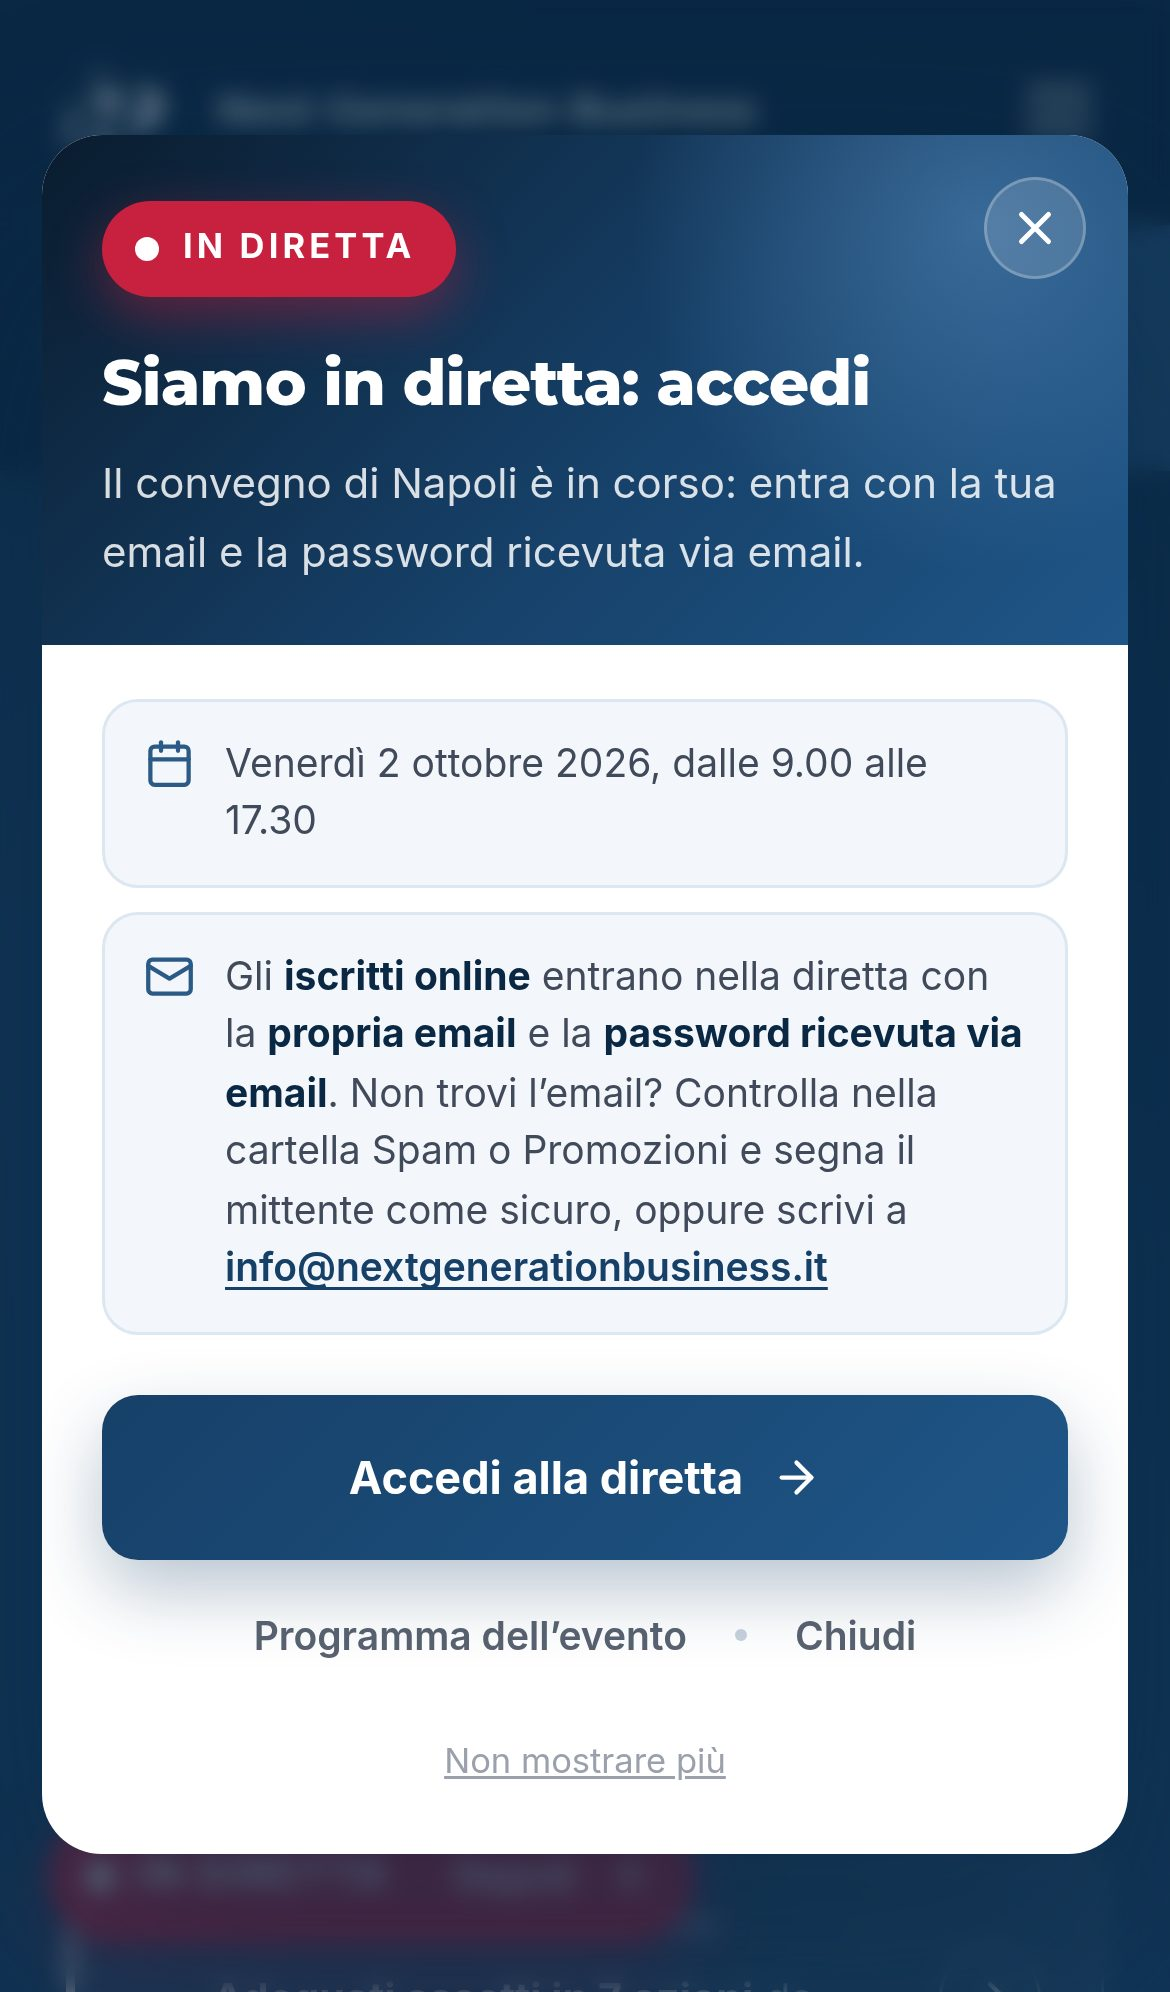
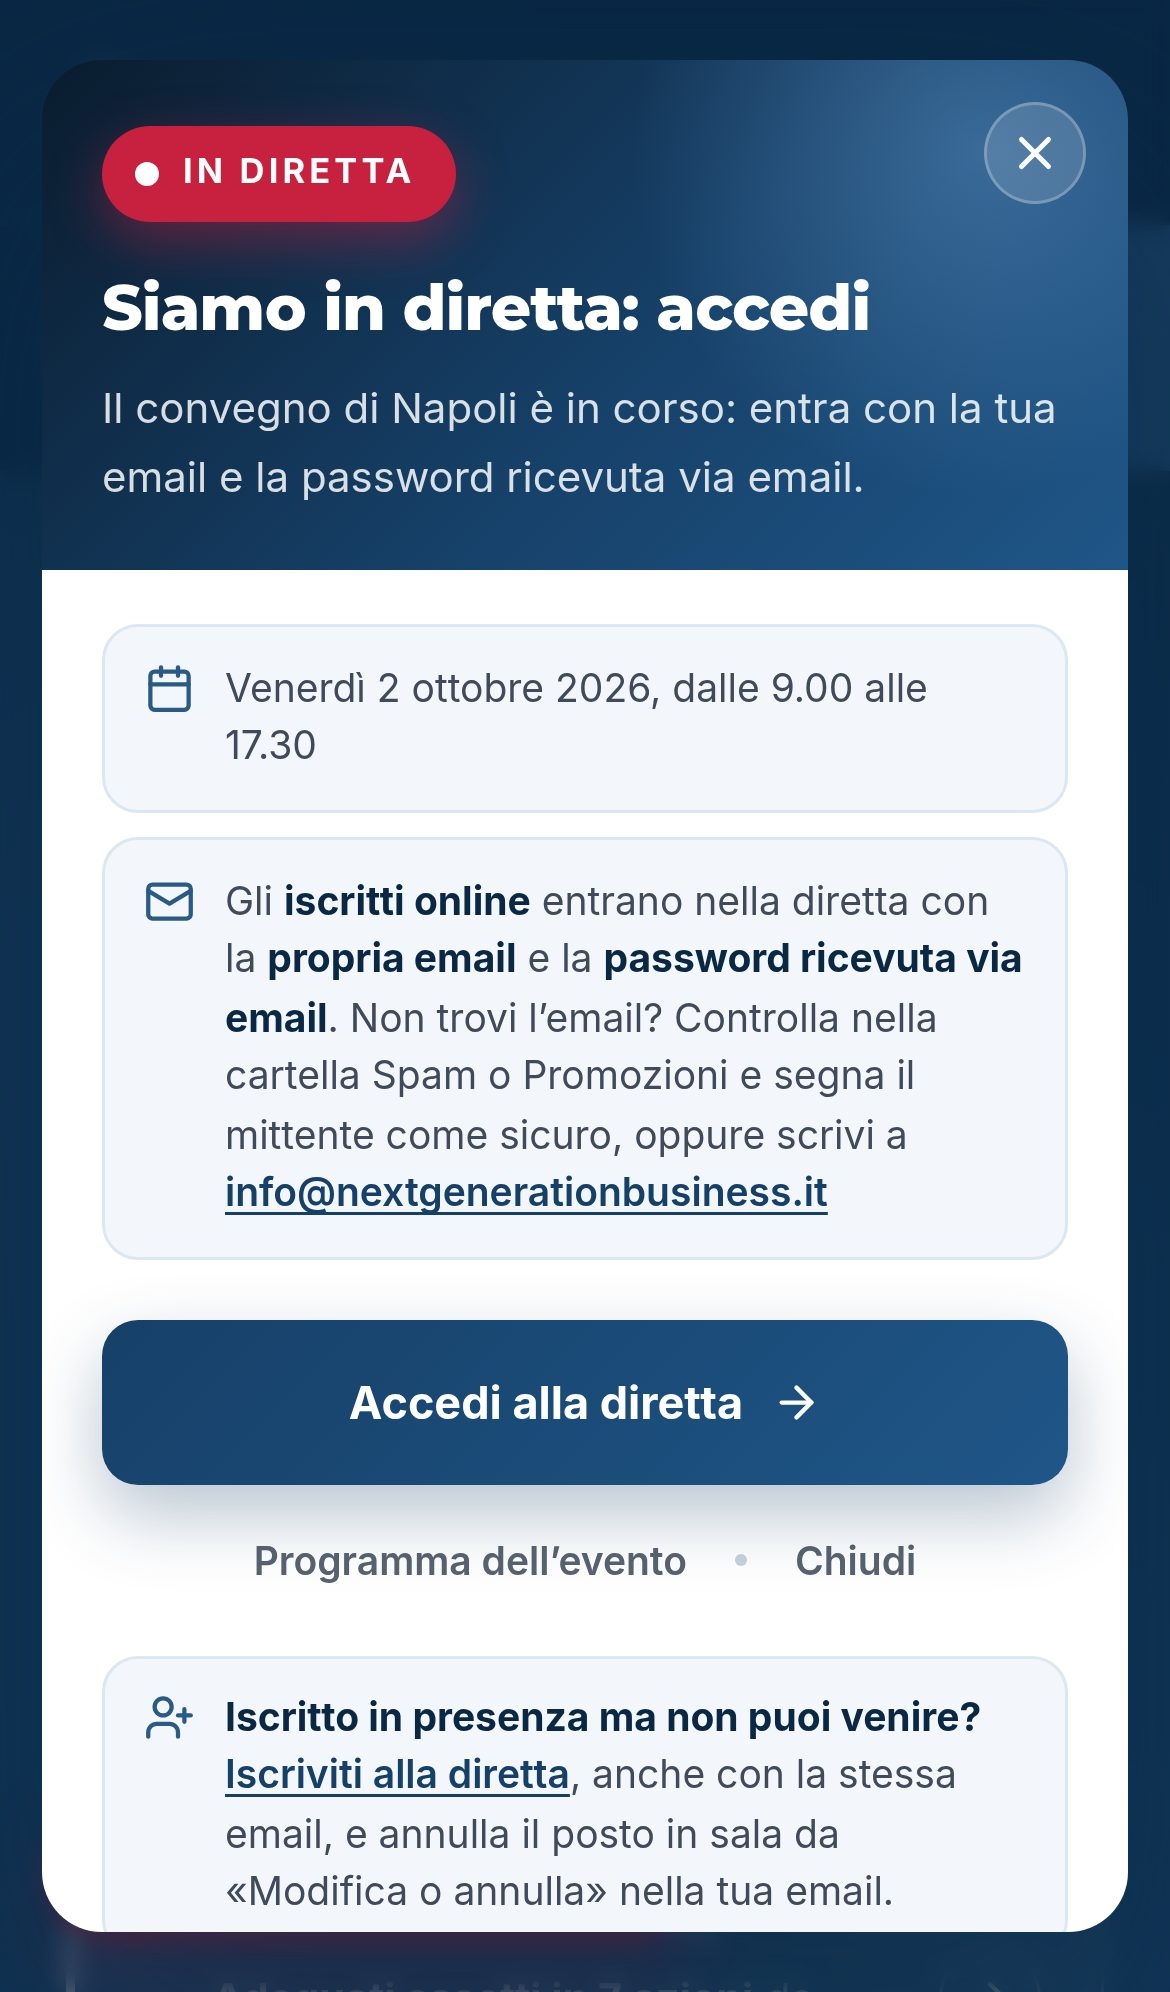
diretta: screenshot dell'aggiunta a mano e del popup, numeri del giro completo (2885 verdi)
Claude-Session: https://claude.ai/code/session_01Vh8hVaybXHL1X15eBRcjKg

Changed region(s): [[0.0308, 0.0311, 0.9846, 0.996], [0.5538, 0.0311, 0.9846, 0.1556], [0.1231, 0.8404, 0.1538, 0.8715]]

diff --git a/diretta/README.md b/diretta/README.md
@@ -1450,6 +1450,12 @@ controlli verdi, 0 rossi**, più le prove del servizio (`email-service/prove`,
 32 file, tutte verdi). Le nuove: `programmate.prova.js` 88, `regole` 111 (+11),
 `gestione` 438 (+35), `e2e` 49 (+4, con un'attesa vera di uno o due minuti).
 
+Con **l'aggiunta a mano e la riga del popup per chi è in presenza** (27
+settembre 2026, notte) il giro completo ha dato **2885 verdi, 0 rossi**,
+anteprima compresa; le prove del servizio (`email-service/prove`, 32 file)
+tutte verdi. Le nuove: `doppioni` 102 (+13), `gestione` 458 (+20), `sito` 319
+(+11).
+
 Con «Torna alla fase iniziale» (27 settembre 2026) sono state rifatte le prove
 che toccano la regia e il servizio: `regole` 100 verdi, `gestione` 395,
 `ascolti-pagina` 107, `e2e` 44 (anche la sezione nuova, con tre pagine vere
